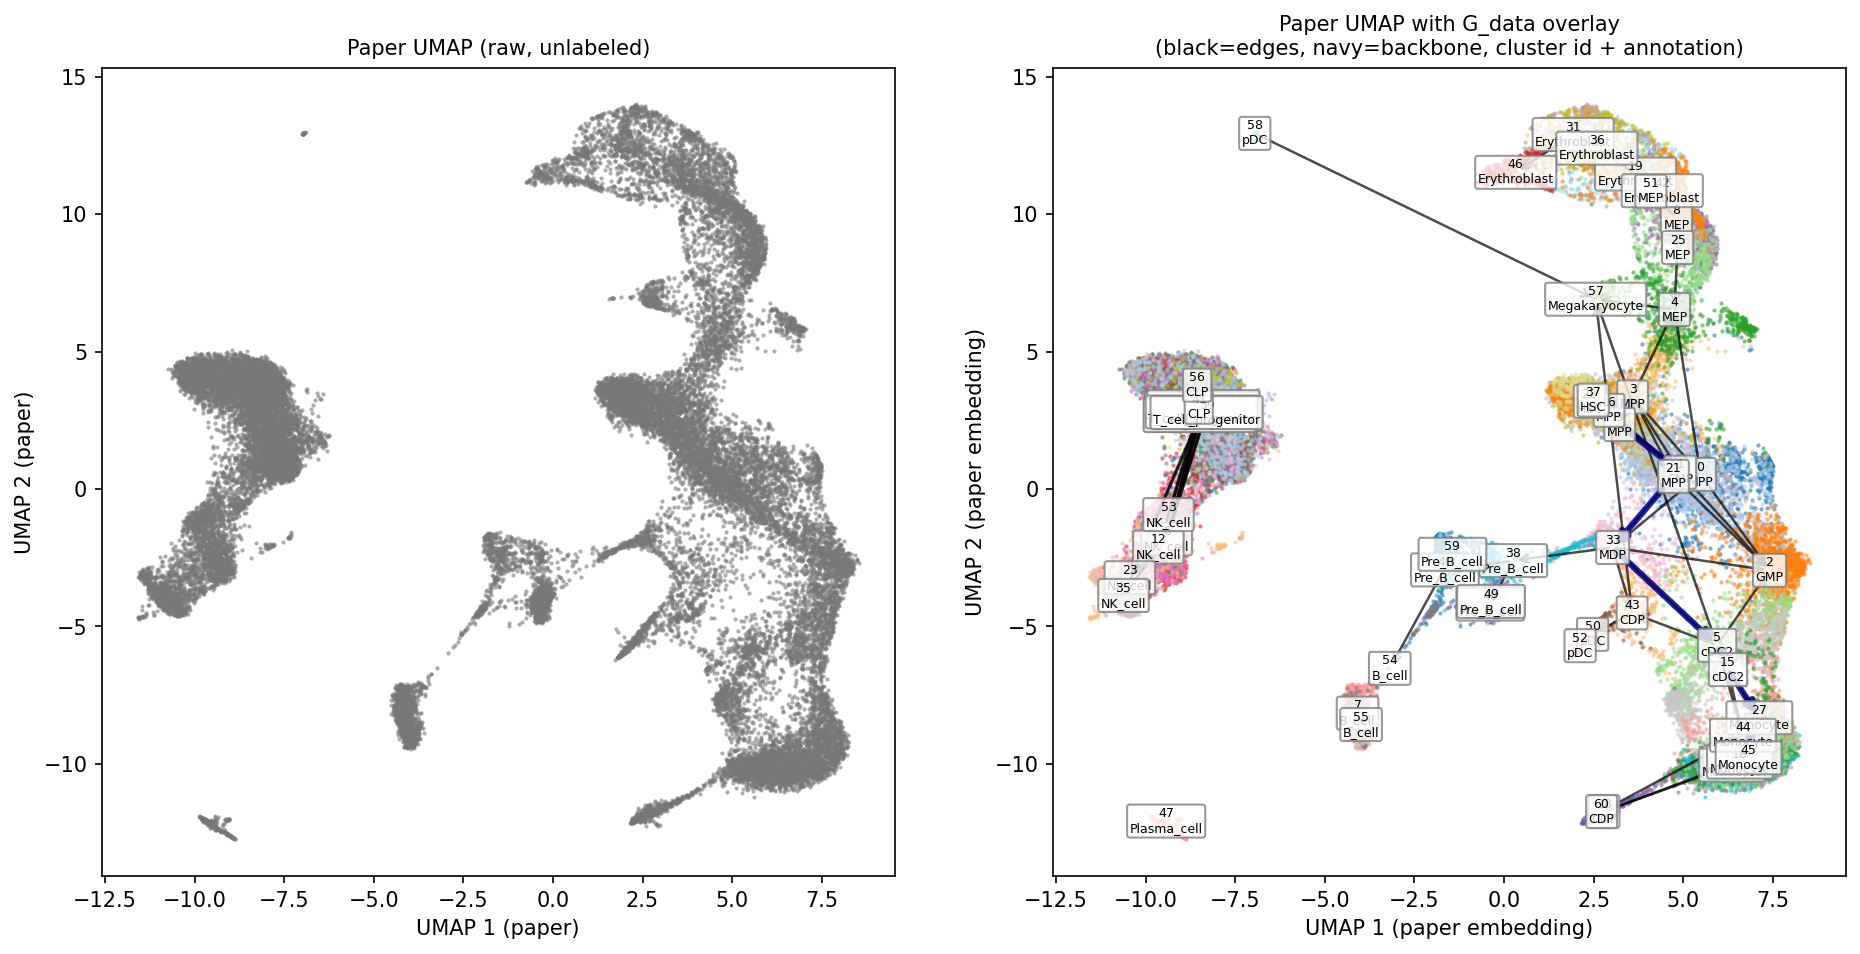
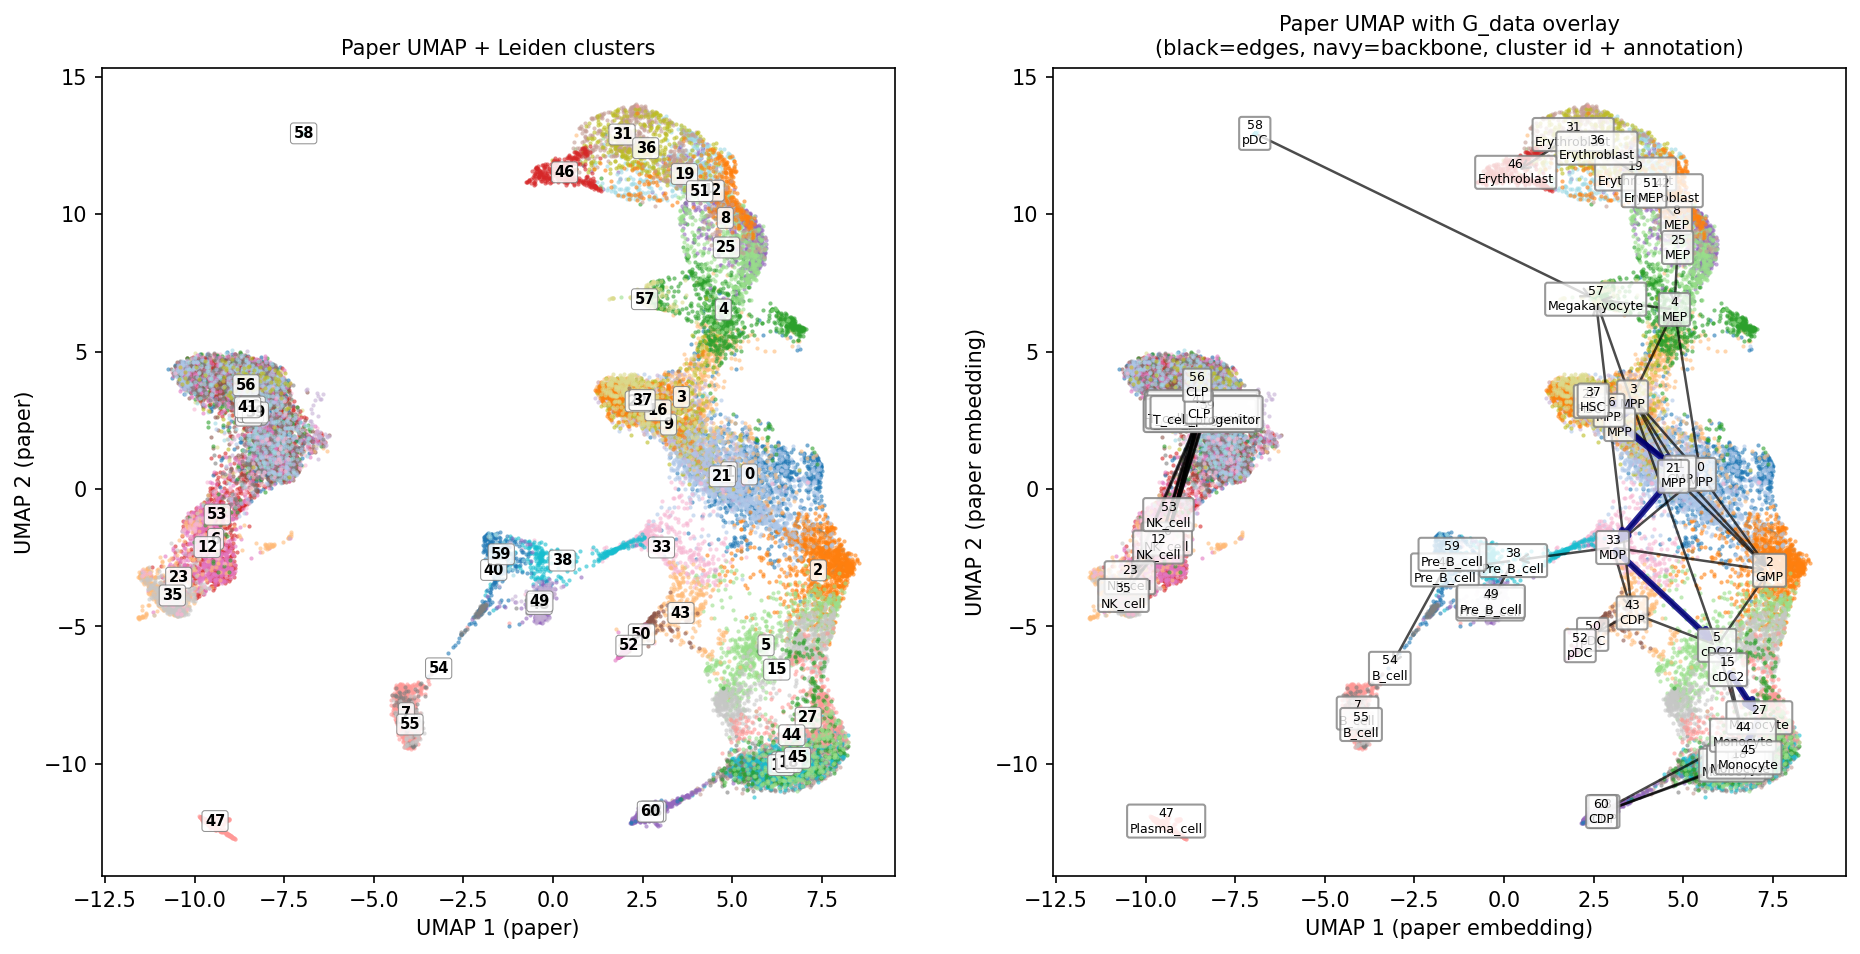
viz: left panel = paper UMAP + Leiden cluster colors + cluster id labels (was raw grey)
User feedback: 'raw가 unlabel인데, cluster만 가져와봐'.

Both two-panel figures now show the Leiden clustering as the LEFT
context (cluster id 0-60, tab20 colors, bold centroid labels) instead
of an unhelpful grey scatter. Right panel keeps its existing overlay:
- umap_annotation.png:        right = colored+labeled by dcta_annotation
- umap_paper_with_g_data.png: right = clusters + G_data edges (black)
  + backbone (navy) + cluster id + annotation two-line labels

Same x/y limits both panels, so cluster -> annotation -> backbone
trajectory can be read across.

diff --git a/dcta/viz.py b/dcta/viz.py
@@ -210,12 +210,28 @@ def umap_paper_with_g_data(adata: ad.AnnData, path: str) -> None:
         return
 
     um = np.asarray(adata.obsm["X_umap"])
-    ax_raw.scatter(um[:, 0], um[:, 1], s=4, color="#777777",
-                   alpha=0.6, linewidths=0)
+    leiden = adata.obs["dcta_leiden"].astype(str).to_numpy()
+    clusters_l = sorted(np.unique(leiden),
+                        key=lambda x: int(x) if x.isdigit() else x)
+    cmap_l = plt.cm.tab20
+    cc_l = {c: cmap_l(i % 20) for i, c in enumerate(clusters_l)}
+    for c in clusters_l:
+        m = leiden == c
+        ax_raw.scatter(um[m, 0], um[m, 1], s=4, color=cc_l[c],
+                       alpha=0.6, linewidths=0)
+    for c in clusters_l:
+        m = leiden == c
+        if not m.any():
+            continue
+        cx, cy = um[m].mean(axis=0)
+        ax_raw.text(cx, cy, c, fontsize=7, ha="center", va="center",
+                    weight="bold",
+                    bbox=dict(boxstyle="round,pad=0.2",
+                              facecolor="white", alpha=0.85,
+                              edgecolor="grey", linewidth=0.5))
     ax_raw.set_xlabel("UMAP 1 (paper)")
     ax_raw.set_ylabel("UMAP 2 (paper)")
-    ax_raw.set_title("Paper UMAP (raw, unlabeled)", fontsize=10)
-    leiden = adata.obs["dcta_leiden"].astype(str).to_numpy()
+    ax_raw.set_title("Paper UMAP + Leiden clusters", fontsize=10)
     clusters = sorted(np.unique(leiden), key=lambda x: int(x) if x.isdigit() else x)
     cmap = plt.cm.tab20
     color_for = {c: cmap(i % 20) for i, c in enumerate(clusters)}
@@ -281,12 +297,33 @@ def umap_annotation(adata: ad.AnnData, path: str,
         return
     um = np.asarray(adata.obsm["X_umap"])
 
-    # ---- left: raw paper UMAP, single color ----
-    ax_raw.scatter(um[:, 0], um[:, 1], s=4, color="#777777",
-                   alpha=0.6, linewidths=0)
+    # ---- left: paper UMAP colored by leiden cluster + cluster id label ----
+    if "dcta_leiden" in adata.obs.columns:
+        leiden_raw = adata.obs["dcta_leiden"].astype(str).to_numpy()
+        clusters_raw = sorted(np.unique(leiden_raw),
+                              key=lambda x: int(x) if x.isdigit() else x)
+        cmap_raw = plt.cm.tab20
+        cc_for = {c: cmap_raw(i % 20) for i, c in enumerate(clusters_raw)}
+        for c in clusters_raw:
+            m = leiden_raw == c
+            ax_raw.scatter(um[m, 0], um[m, 1], s=4, color=cc_for[c],
+                           alpha=0.6, linewidths=0)
+        for c in clusters_raw:
+            m = leiden_raw == c
+            if not m.any():
+                continue
+            cx, cy = um[m].mean(axis=0)
+            ax_raw.text(cx, cy, c, fontsize=7, ha="center", va="center",
+                        weight="bold",
+                        bbox=dict(boxstyle="round,pad=0.2",
+                                  facecolor="white", alpha=0.85,
+                                  edgecolor="grey", linewidth=0.5))
+    else:
+        ax_raw.scatter(um[:, 0], um[:, 1], s=4, color="#777777",
+                       alpha=0.6, linewidths=0)
     ax_raw.set_xlabel("UMAP 1 (paper)")
     ax_raw.set_ylabel("UMAP 2 (paper)")
-    ax_raw.set_title("Paper UMAP (raw, unlabeled)", fontsize=10)
+    ax_raw.set_title("Paper UMAP + Leiden clusters", fontsize=10)
 
     # ---- right: colored + labeled ----
     labels = adata.obs[col].astype(object).fillna("NA").to_numpy()
